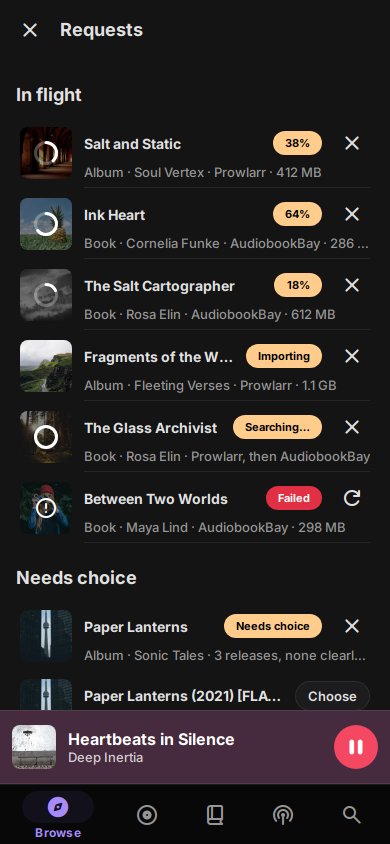
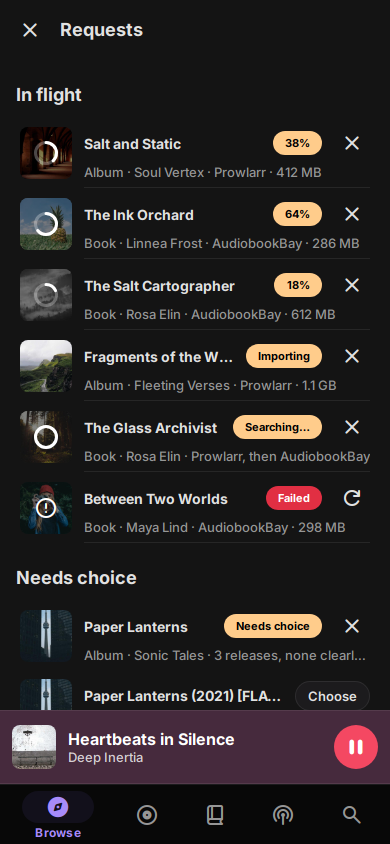
Give the canvas invented titles and authors in place of real books
The placeholders named three real books and their authors: Inkheart and Cornelia Funke, Wind and
Truth and Brandon Sanderson, The Silent Patient and Alex Michaelides. Each is invented now, the
same everywhere: The Ink Orchard by Linnea Frost, The Long Meridian by Tomas Arden, The Quiet
Lodger by Iris Calloway. Their art files and refs take the new names, with the images kept, and
Sonora's cards use the same authors. The comparison notes describe the kit's "Playing from"
line without the real title.

Artist, Books, Browse, Downloads, Requests and Shelf review are re-shot with fresh page hashes.
Pixel for pixel, the only change is the renamed text; speckle in scaled artwork differs between
two shoots of the same code too, so Artist, whose text did not change, keeps its images.

Plan: M0.canvas
Claude-Session: https://claude.ai/code/session_013Mi6PDzaGubo3sD3DQbLBz

Changed region(s): [[0.2154, 0.2464, 0.9231, 0.3081]]

diff --git a/design/sonora/components/components/player-tracks.card.html b/design/sonora/components/components/player-tracks.card.html
@@ -19,7 +19,7 @@ function Demo(){
     <MiniPlayer platform="desktop" title="Glass Weather" artist="Glass Weather · HALCYON BLOOM"
       playing={playing} onTogglePlay={()=>setPlaying(!playing)} progress={0.42} duration={258} />
     <div style={{maxWidth:620}}>
-      <ResultRow title="The Long Meridian" meta="Maya Lind · Audiobook · 62 h" status="In library" tone="library" />
+      <ResultRow title="The Long Meridian" meta="Tomas Arden · Audiobook · 62 h" status="In library" tone="library" />
       <ResultRow title="Escapes and Moons" meta="Soul Vertex · Single · 3:33" status="Requested · 87%" tone="request" actionGlyph="downloading" />
       <ResultRow title="Shadows and Sighs" meta="Evelyn Harper · Album · 11 tracks" status="Queued" tone="progress" />
       <ResultRow title="Fleeting Verses Live" meta="Fleeting Verses · Podcast · 2 h 04 m" status="Searching…" tone="progress" />
@@ -46,11 +46,11 @@ function Demo(){
       <ResultRow platform="mobile" title="The Glass Archivist" meta="Book · Rosa Elin · Audible" detail="Listeners who finished The Salt Cartographer went on to this one, the next in its world." status="In library" tone="library" />
     </div>
     <div style={{color:'var(--surface-fg-muted)',fontSize:'var(--text-xs)',fontWeight:'var(--weight-strong)',textTransform:'uppercase',letterSpacing:.5}}>Media header — wide pane (≥600px): art beside the text</div>
-    <MediaHeader kindLabel="Audiobook" title="The Ink Orchard" subtitle="Evelyn Harper" onSubtitle={()=>{}}
+    <MediaHeader kindLabel="Audiobook" title="The Ink Orchard" subtitle="Linnea Frost" onSubtitle={()=>{}}
       meta="2023 · 18 chapters · 14 h 42 m" onPlay={()=>{}} onPlayNext={()=>{}} onPlayLast={()=>{}} />
     <div style={{color:'var(--surface-fg-muted)',fontSize:'var(--text-xs)',fontWeight:'var(--weight-strong)',textTransform:'uppercase',letterSpacing:.5}}>Same component in a 412px frame — the breakpoint flips it to stacked and centred</div>
     <div style={{width:412,padding:'var(--spacing-lg)',boxSizing:'border-box',background:'var(--surface-bg-alt)',borderRadius:'var(--radius-lg)'}}>
-      <MediaHeader kindLabel="Audiobook" title="The Ink Orchard" subtitle="Evelyn Harper" onSubtitle={()=>{}}
+      <MediaHeader kindLabel="Audiobook" title="The Ink Orchard" subtitle="Linnea Frost" onSubtitle={()=>{}}
         meta="2023 · 18 chapters · 14 h 42 m" onPlay={()=>{}} onPlayNext={()=>{}} onPlayLast={()=>{}} />
     </div>
     <div style={{color:'var(--surface-fg-muted)',fontSize:'var(--text-xs)',fontWeight:'var(--weight-strong)',textTransform:'uppercase',letterSpacing:.5}}>Under a page heading that already names the item: no title, one queue button (nextLabel null) and the menu after it, open</div>

diff --git a/design/sonora/components/components/media-cards.card.html b/design/sonora/components/components/media-cards.card.html
@@ -19,7 +19,7 @@ function Demo(){
       <MediaCard title="Fairytale" sub="Album · Natasha Beller" image={cover("Fairytale")} onPlay={()=>{}} onPlayNext={()=>{}} onPlayLast={()=>{}} onMore={()=>{}} />
       <MediaCard title="Foggy Trails" sub="Book · Adam Rivers" progress={0.42} image={cover("Foggy Trails")} onMore={()=>{}} />
       <MediaCard title="Sonic Tales" sub="Podcast · 148 episodes" image={cover("Sonic Tales")} />
-      <MediaCard title="The Ink Orchard" sub="Book · Evelyn Harper" image={cover("The Ink Orchard")} absent onRequest={()=>{}} onClick={()=>{}} />
+      <MediaCard title="The Ink Orchard" sub="Book · Linnea Frost" image={cover("The Ink Orchard")} absent onRequest={()=>{}} onClick={()=>{}} />
       <MediaCard platform="mobile" title="Golden Scars" sub="Album · Fleeting Verses" image={cover("Golden Scars")} onMore={()=>{}} />
     </div>
     <div style={{color:'var(--surface-fg-muted)',fontSize:'var(--text-xs)',fontWeight:'var(--weight-strong)',textTransform:'uppercase',letterSpacing:.5}}>Requests — greyed, a tap on one not in your library asks for it; status in the request's tone; narrow cards keep the percentage or the word</div>

diff --git a/design/app/compare/books.md b/design/app/compare/books.md
@@ -1,6 +1,6 @@
 ---
 page: books
-pageHash: 20caa9620bb3fee5ef16fe05e1b9e4cd930767626c0f125f23b377cfd7404c90
+pageHash: d886741c79201028dc80b71b5b04e32d40ce5db3a025ba0504af4fa4298f0466
 sonora: [kit:desktop/books, kit:mobile/books]
 spotify: [S31]
 ---
@@ -29,7 +29,7 @@ search="Search your books and requests"`: out as the front layer scrolls, as on 
 filter row: requests sit among the books, greyed with their status, as the plan says. The subheader
 is the `TabBar` Books, Authors, Series, Narrators, opening on Books, its first tab. The body: the `SortFilterBar` "Title" with the `ViewToggle` opposite, then a `LayoutGrid`
 of `MediaCard`s in title order: 3 across on the phone, filling the front layer on desktop. Owned books carry
-their rose resume bar (Foggy Trails, The Silent Patient, Wind and Truth). Three are requests, their
+their rose resume bar (Foggy Trails, The Quiet Lodger, The Long Meridian). Three are requests, their
 art greyed and a pill in their tone: "Downloading · 64%" and "Downloading · 18%" in the accent
 (the download progress the structure asks for; on a phone card it keeps "64%" with its glyph,
 sized to the pill's text by Sonora's `--icon-2xs`) and

diff --git a/design/app/compare/queue.md b/design/app/compare/queue.md
@@ -15,7 +15,7 @@ row in accent, drag handles, Timer and Speed at its foot) and S37 (the same at f
 
 ## What the sources show
 
-- **Mobile kit.** A Queue page over the player with a close control: "Playing from Ink Heart" beside
+- **Mobile kit.** A Queue page over the player with a close control: "Playing from" and the book's title beside
   the edit toggle, Now playing, then Up next, rows with a flat accent tile for art.
 - **Desktop kit.** The panel's Queue tab: the same rows, the third tab cut to "L…".
 - **S36, S37.** Edit turns on selection and reorder; timer and speed sit at the sheet's foot.

diff --git a/design/app/compare/nowPlaying.md b/design/app/compare/nowPlaying.md
@@ -17,7 +17,7 @@ skip 15, sleep) and S40 (the lyrics card and About the artist below the transpor
 
 ## What the sources show
 
-- **Mobile kit.** Collapse, "PLAYING FROM INK HEART", the menu; art, title, artist and a favourite;
+- **Mobile kit.** Collapse, "PLAYING FROM" and the book's title, the menu; art, title, artist and a favourite;
   seek; shuffle, previous, pause, next, repeat; Speed and Sleep timer read-outs; a lyrics preview;
   and a bottom app bar with output, lyrics, queue and more.
 - **S33.** Spoken content has its own transport: speed coloured when not 1x, skip back and forward

diff --git a/design/app/compare/browse.md b/design/app/compare/browse.md
@@ -1,6 +1,6 @@
 ---
 page: browse
-pageHash: 0929be15ff1cba7d6ba3efbaa298321d79411c36756718e50fea0111b4d492ad
+pageHash: 935056a694119e13db0fc66b5aba14518416ed44386db1899b47af008e00e5ef
 sonora: [kit:mobile/browse, kit:desktop/browse]
 ---
 

diff --git a/design/app/compare/artist.md b/design/app/compare/artist.md
@@ -1,6 +1,6 @@
 ---
 page: artist
-pageHash: 16a9d3b29500a203725e63e96c988c1718ab57b6a914814a509547928b6c7047
+pageHash: b51d03539362191d8053505c803c3d40ccbd122646a21fe09e81d69b6cc40e8d
 sonora: [none]
 spotify: [S41]
 ---

diff --git a/design/app/compare/shelfReview.md b/design/app/compare/shelfReview.md
@@ -1,6 +1,6 @@
 ---
 page: shelfReview
-pageHash: bc2e519927b553e7291adb1145805400caf808bdc7869ccc27f9a9f26fdd988c
+pageHash: 547016e03ef439eababe82d9efe611d149b31ce2bf77c97b6165ee9116b418b8
 sonora: [none]
 ---
 

diff --git a/design/app/compare/downloads.md b/design/app/compare/downloads.md
@@ -1,6 +1,6 @@
 ---
 page: downloads
-pageHash: 78d3132889fac65463a18462c63ac5a95d1e520d65ee70dab4cd7e9946d467d7
+pageHash: af56aaff82c3c4320932d29445c9db57abe3095a9421e8dfc50d0538bb216034
 sonora: [none]
 ---
 

diff --git a/design/app/compare/requests.md b/design/app/compare/requests.md
@@ -1,6 +1,6 @@
 ---
 page: requests
-pageHash: f3a0e325cc907d23e616969e506e675136a402fd41c0b2ad29ae0ff44f0270e2
+pageHash: 2cdd00bed1cfcd26a41a829c8c676fbd1dd592b940b302d775785e74095bd1ca
 sonora: [none]
 ---
 
